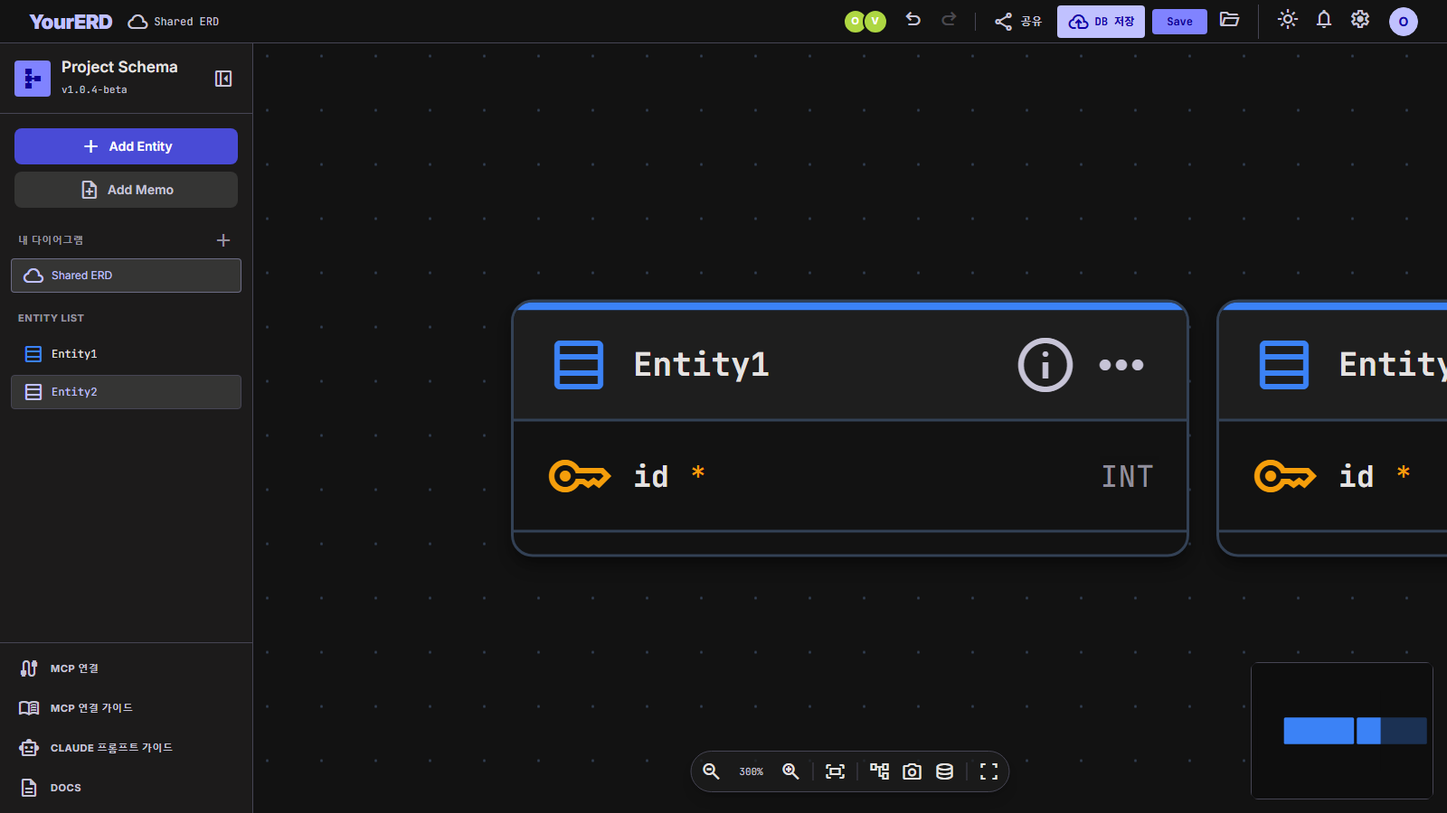
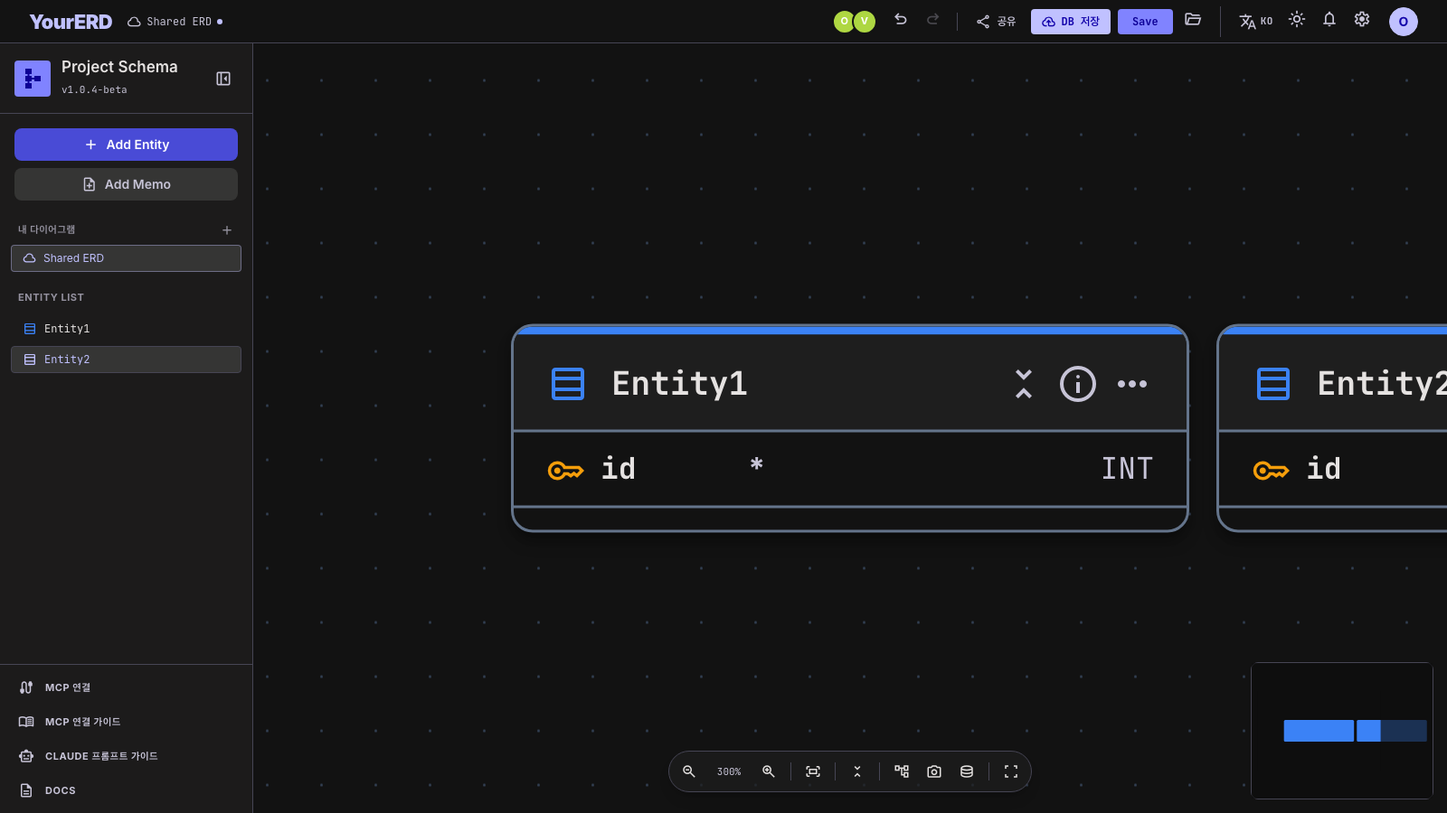
feat(share): 공유 링크를 로그인 없이 열람 가능하게
링크를 받은 사람이 반드시 로그인해야 볼 수 있던 제약을 해제한다.

익명 접근 경로는 2026-07-02 공유 기능 구현 때 이미 다 들어가 있었고
ALLOW_ANON_SHARE 환경변수로 잠겨만 있었다(1단계 MVP의 보수적 기본값).
새로 만든 것이 아니라 기본값을 뒤집고 잠금 스위치를 REQUIRE_SHARE_LOGIN=1 로
반전시켰다.

- share-routes.js: GET /api/shared/:token 의 401 게이트 제거.
  토큰 자체가 그 다이어그램 하나에 대한 읽기 capability 다.
- access-util.js: resolveDiagramAccess 가 비로그인에게 게스트 신원(guestId)을
  기본 발급. 단 익명은 viewer 링크만 — editor 링크는 로그인을 계속 요구한다.
  익명 편집자는 actorId 가 매번 새 게스트라 누가 고쳤는지 남지 않기 때문이고,
  요청은 '볼 수 있게' 였으므로 쓰기는 열지 않았다.
- sharedSessionStore.ts: '비로그인이면 로그인 모달 강제' 조기 반환 제거.
  401 catch 는 REQUIRE_SHARE_LOGIN=1 잠금 인스턴스용 폴백으로 남긴다.

유지된 불변식:
- 소유자 전용 /api/diagrams/:id 는 익명에게 여전히 401
- 토큰↔다이어그램 바인딩 유지, 폐기 토큰 403
- 링크 진입자는 계정 유무와 무관하게 읽기 전용

검증: verify_share.mjs 의 '익명 401' 단언을 뒤집고 익명 브라우저 시나리오
6항목을 추가해 24항목 ALL PASS(로그인 모달 미노출·다이어그램 렌더·읽기전용
배지·Add Entity 없음·협업 live 게스트 참여·API 200). REQUIRE_SHARE_LOGIN=1
로 띄워 익명 401 잠금도 별도 확인. 회귀 verify_server·verify_diagram_duplicate·
verify_features 14·verify_i18n 26·verify_node_density 17 PASS. 빌드 PASS,
lint 기존 baseline 16건 유지.

문서: ShareModal 안내문(ko/en), manual 3종 10.3절, README 환경변수 표,
.env.example 에 REQUIRE_SHARE_LOGIN 추가.

부수 정리: verify_share.mjs 의 스크린샷 경로 3곳이 Windows 절대경로로
하드코딩돼 macOS 에서 돌릴 때마다 리포 안에 C:/project/... 디렉토리가
생성되던 것을 상대 경로로 수정.

보안 영향(의도된 것): 링크를 아는 사람은 누구나 로그인 없이 읽을 수 있다.
토큰이 URL 경로(/d/<token>)에 있어 브라우저 히스토리·리퍼러·nginx 액세스
로그에 남으므로 링크 유출이 곧 열람 허용이다. 사내 전용 인스턴스는
REQUIRE_SHARE_LOGIN=1 로 예전 동작을 복구할 수 있다.

diff --git a/erd-service/public/manual.html b/erd-service/public/manual.html
@@ -364,13 +364,13 @@
           <li>저장한 다이어그램은 좌측 <strong>내 다이어그램</strong> 목록에서 전환·이름변경·삭제할 수 있습니다.</li>
         </ul>
         <div class="note">다이어그램 이름 옆의 점(●)은 저장되지 않은 변경 표시입니다. 다른 다이어그램 전환·로그아웃 시 미저장 변경이 있으면 경고합니다.</div>
-        <h3>10.3 공유 및 실시간 함께 보기 (로그인 필요)</h3>
+        <h3>10.3 공유 및 실시간 함께 보기</h3>
         <p>DB에 저장한 다이어그램을 <strong>링크로 공유</strong>해 여러 사람이 실시간으로 함께 볼 수 있습니다.</p>
         <ul>
           <li>다이어그램을 연 뒤 상단 <strong>공유</strong> 버튼을 누릅니다. (DB에 저장된 다이어그램만 공유 가능)</li>
           <li><strong>뷰어 링크 생성</strong> → <code>https://.../d/…</code> 링크가 만들어집니다. <strong>복사(⧉)</strong>로 복사해 전달하세요.</li>
-          <li>링크를 받은 사람이 <strong>로그인</strong>하면 소유자의 편집이 그 화면에 <strong>실시간 반영</strong>됩니다.</li>
-          <li>링크로 들어온 사람은 <strong>읽기 전용</strong>("읽기 전용" 배지). 편집 버튼·단축키는 비활성화되고 <strong>나가기</strong>로 내 작업으로 돌아갑니다.</li>
+          <li>링크를 받은 사람은 <strong>로그인 없이 바로</strong> 볼 수 있고, 소유자의 편집이 그 화면에 <strong>실시간 반영</strong>됩니다.</li>
+          <li>링크로 들어온 사람은 계정 유무와 무관하게 <strong>읽기 전용</strong>("읽기 전용" 배지). 편집 버튼·단축키는 비활성화되고 <strong>나가기</strong>로 내 작업으로 돌아갑니다.</li>
           <li>상단 참여자 <strong>아바타</strong>로 함께 보는 사람을 확인하고, 공유 모달 목록에서 링크를 <strong>폐기(🗑)</strong>할 수 있습니다.</li>
         </ul>
         <div class="note">링크 토큰은 발급 시 한 번만 표시되며 서버에는 해시만 저장됩니다. 링크는 그 다이어그램 하나만 열 수 있고 소유자의 다른 다이어그램·계정에는 접근할 수 없습니다. 여러 사람이 <strong>동시에 편집</strong>하는 기능은 다음 단계에서 제공될 예정입니다(현재는 소유자 편집 + 나머지 함께 보기).</div>

diff --git a/erd-service/server/access-util.js b/erd-service/server/access-util.js
@@ -22,7 +22,8 @@ export async function resolveShareToken(app, token) {
 // 반환: { diagramId, userId|null, guestId|null, role } | null(접근 불가).
 //   - 소유자(JWT로 user 확보 + 소유): role='owner'
 //   - 그 다이어그램에 바인딩된 유효 공유 토큰: role=share.role
-//       · JWT도 있으면 userId로 신원, 없으면 ALLOW_ANON_SHARE일 때만 게스트, 아니면 로그인 필요(null)
+//       · JWT가 있으면 userId로 신원, 없으면 게스트(익명)로 참여
+//       · 단 익명은 **viewer 링크만** — editor 링크는 누가 고쳤는지 남아야 하므로 로그인을 요구한다
 // 공유 토큰이 다른 다이어그램을 열지 못하도록 share.diagramId === id를 강제한다.
 export async function resolveDiagramAccess(app, { diagramId, user, shareToken }) {
   const id = Number(diagramId);
@@ -38,10 +39,12 @@ export async function resolveDiagramAccess(app, { diagramId, user, shareToken })
   const share = await resolveShareToken(app, shareToken);
   if (share && share.diagramId === id) {
     if (user) return { diagramId: id, userId: user.id, guestId: null, role: share.role };
-    if (process.env.ALLOW_ANON_SHARE === '1') {
+    // 비로그인 참여: 보기 전용 링크만 허용한다. editor 링크로 익명이 들어오면 편집자가 되어
+    // 누가 바꿨는지 남지 않으므로(actorId가 매번 새 게스트) 로그인을 요구한다.
+    if (share.role === 'viewer' && process.env.REQUIRE_SHARE_LOGIN !== '1') {
       return { diagramId: id, userId: null, guestId: 'g' + randomUUID(), role: share.role };
     }
-    return null; // 토큰은 유효하나 로그인 필요(MVP 기본)
+    return null; // editor 링크 익명 접근, 또는 REQUIRE_SHARE_LOGIN=1
   }
 
   return null;

diff --git a/erd-service/server/share-routes.js b/erd-service/server/share-routes.js
@@ -63,11 +63,12 @@ export default async function shareRoutes(app) {
 
   // 공개 읽기 — 공유 토큰으로 다이어그램 데이터 조회. 소유자 전용 /api/diagrams/:id와 분리해
   // "다이어그램은 소유자 비공개" 불변식을 유지한다(공유는 별도 토큰 표면).
-  // MVP 기본은 로그인 필요(ALLOW_ANON_SHARE=1이면 비로그인도 허용).
+  // 링크를 가진 사람은 **로그인 없이** 볼 수 있다 — 토큰 자체가 그 다이어그램 하나에 대한 읽기 capability다.
+  // 운영상 다시 잠그려면 REQUIRE_SHARE_LOGIN=1 (예: 사내 전용 인스턴스).
   app.get('/api/shared/:token', async (req, reply) => {
     let user = null;
-    try { await req.jwtVerify(); user = req.user; } catch { /* 익명 접근 */ }
-    if (!user && process.env.ALLOW_ANON_SHARE !== '1') {
+    try { await req.jwtVerify(); user = req.user; } catch { /* 익명 접근 — 허용 */ }
+    if (!user && process.env.REQUIRE_SHARE_LOGIN === '1') {
       return reply.code(401).send({ error: 'login_required' });
     }
     const share = await resolveShareToken(app, req.params.token);

diff --git a/erd-service/public/en/manual.html b/erd-service/public/en/manual.html
@@ -374,7 +374,7 @@
         <ul>
           <li>Open the diagram and press <strong>Share</strong> in the top bar. (Only diagrams saved to the database can be shared.)</li>
           <li><strong>Create viewer link</strong> → a <code>https://.../d/…</code> link is generated. Use <strong>copy (⧉)</strong> and send it on.</li>
-          <li>Once the recipient <strong>signs in</strong>, the owner's edits appear on their screen <strong>in real time</strong>.</li>
+          <li>The recipient can open it <strong>without signing in</strong>, and the owner's edits appear on their screen <strong>in real time</strong>.</li>
           <li>Anyone arriving via the link is <strong>read-only</strong> (marked with a "Read-only" badge). Editing buttons and shortcuts are disabled, and <strong>Leave</strong> returns them to their own work.</li>
           <li>The participant <strong>avatars</strong> in the top bar show who is watching, and links can be <strong>revoked (🗑)</strong> from the list in the share modal.</li>
         </ul>

diff --git a/erd-service/src/store/sharedSessionStore.ts b/erd-service/src/store/sharedSessionStore.ts
@@ -31,12 +31,8 @@ export const useSharedSessionStore = create<SharedSessionState>((set) => ({
 
   enter: async (token) => {
     set({ token, error: null, needsLogin: false });
-    // MVP: 로그인 필요 — 비로그인 상태면 로그인 모달을 띄우고, 로그인 후 App에서 재시도한다.
-    if (useAuthStore.getState().status === 'anon') {
-      set({ needsLogin: true });
-      useAuthStore.getState().openModal();
-      return;
-    }
+    // 로그인 없이 바로 연다. 서버가 REQUIRE_SHARE_LOGIN=1로 잠겨 있으면 아래 catch의 401이
+    // 로그인 모달을 띄우고, 로그인 후 App이 재시도한다(잠금 인스턴스용 폴백).
     try {
       const dg = await api.getSharedDiagram(token);
       const { entities, relationships, positions, memos } = fromERDData(dg.data);

diff --git a/erd-service/src/i18n/ko.ts b/erd-service/src/i18n/ko.ts
@@ -271,7 +271,7 @@ export const ko = {
   'share.saveFirstBefore': '공유하려면 먼저 다이어그램을',
   'share.saveFirstStrong': 'DB에 저장',
   'share.saveFirstAfter': '하세요.',
-  'share.intro1': '다이어그램의 공유 링크를 만듭니다. 링크를 받은 사람이 로그인하면 여러 명이 실시간으로',
+  'share.intro1': '다이어그램의 공유 링크를 만듭니다. 링크만 있으면 로그인 없이 여러 명이 실시간으로',
   'share.introStrong': '함께 볼',
   'share.intro2': '수 있습니다(읽기 전용). 실시간 동시 편집은 다음 단계에서 제공됩니다.',
   'share.linkLabel': '링크 이름 (선택)',

diff --git a/erd-service/src/i18n/en.ts b/erd-service/src/i18n/en.ts
@@ -270,7 +270,7 @@ export const en: Record<MessageKey, string> = {
   'share.saveFirstBefore': 'To share, first',
   'share.saveFirstStrong': 'save the diagram to the DB',
   'share.saveFirstAfter': '.',
-  'share.intro1': '— create a share link. Anyone with the link can sign in and',
+  'share.intro1': '— create a share link. No sign-in needed: anyone with the link can',
   'share.introStrong': 'view it together',
   'share.intro2': 'in real time (read-only). Simultaneous editing is coming in a later step.',
   'share.linkLabel': 'Link name (optional)',

diff --git a/CLAUDE.md b/CLAUDE.md
@@ -70,3 +70,4 @@
 | 2026-07-30 | 관계선 우회 드래그 축 판정 수정 (하단/상단 면 부착 시 무반응) | 프론트엔드 | 같은 날 추가한 우회 기능이 드래그 축을 **부모 쪽 연결 면**으로 판정해(`bendAxis(sourcePosition)`), 사용자가 끝점을 하단 면에 붙여 둔 좌우 배치에서는 선이 가로로 달리는데도 축이 x로 잡혀 상/하 드래그가 전혀 먹지 않던 문제 수정 — 축을 **두 끝점의 실제 진행 방향**으로 판정하도록 변경(`bendAxis(s, t)`: 가로 거리 ≥ 세로 거리면 y축=상/하 드래그). 좌우/상하 배치 모두 연결 면과 무관하게 올바른 축이 잡힌다. 추가로 오프셋 0의 기준선을 개선 — 양 끝이 같은 방향으로 나가면(둘 다 하단/상단, 둘 다 좌/우) 바깥쪽 stub을 기준(`baseX`/`baseY`)으로 삼아 자동 경로와 같은 모양에서 드래그가 시작되게 함(기존엔 끝점 y 평균이라 드래그 시작 시 선이 튀었음). `edgeConnection.ts`(bendAxis 시그니처·baseX/baseY)·`RelationshipEdge.tsx`(비우회 상태의 커서/툴팁 축 계산도 같은 함수 사용) 수정. `verify_edge_bend.mjs`에 하단 면 부착 케이스 추가(끝점 2개를 하단 면으로 드래그 → 좌우 배치 확인 → 상/하 드래그로 우회 → 끝점 하단 면 유지) **28항목 PASS**, 회귀 verify_edge_anchor 15·verify_rel_sidepanel 28·verify_features 14·verify_self_ref 13 PASS, 빌드 PASS, 스크린샷 확인(ss_edge_bend_bottom — 하단 면 부착 상태에서 중간 엔티티 아래로 우회). manual.html·USER_MANUAL.md 6.4절에 "연결 면이 아니라 두 엔티티의 배치로 축을 판단" 명시 |
 | 2026-09-01 | 한국어/영어 다국어(i18n) 지원 | 프론트엔드+문서 | 한국어 단일 언어였던 UI·가이드를 영어와 함께 지원 — 한국어 기본 + 상단 바 🌐 토글(자동 감지 없음), 선택은 localStorage 영속. **라이브러리 없이 자체 경량 구현**: `src/i18n/`(`locale.ts` zustand persist(`erd-locale`, themeStore 패턴 미러링)·정본 `ko.ts`·`en.ts`·`errors.ts`·`labels.ts`·`index.ts`의 `useT()`/`getT()`/`{name}` 보간) 신규. **타입 안전**: `MessageKey = keyof typeof ko` + `en: Record<MessageKey, string>`이라 번역 누락이 런타임 빈 문자열이 아니라 `tsc -b` 컴파일 에러로 잡힘. **경계 정의가 작업의 핵심** — 번역 대상은 `src/components/**`·`diagramStore`·`sharedSessionStore`·`dialogStore`·`fileIO`·`exportImage`의 화면 문자열(고유 ~170개)이고, **제외**: `server/**`의 `{error:'code'}`(기계 판독용)·`collab-hub`/`collab-routes`의 콘솔 전용 message·`mcp/src/**` 전부(LLM 대면, 로케일 무관해야 함)·`src/types/erd.ts`(`RELATIONSHIP_LABELS`를 MCP 도구 설명이 소비하는 정본이라 무변경, UI만 `relType.*` 키로 별도 조회)·사용자 데이터(논리명·설명·메모·다이어그램명)·erdOps 기본값(`Entity{N}`·`id`·`column`·`SubType{N}`·`SubSet`·`parent_` — 전부 이미 영문). **선행 정리(0단계)**: 삭제 확인 다이얼로그 4종이 App/ERDCanvas/각 편집모달에 3벌씩 복붙돼 있던 것을 `store/deleteActions.ts`로 통합(번역 키 4개로 축소), `core/relationshipSides.ts`의 `labelForSides`가 '식별'·'점선' 조각을 코드로 이어붙여 영어 어순에서 깨지던 것을 `i18n/labels.ts`로 옮기고 조립 순서를 사전(`rel.sideLabel` 템플릿)이 소유하게 재설계 — core에는 순수 로직만 잔류. **에러 문구 중앙화**: `AuthModal`에만 있던 코드→문구 맵을 `i18n/errors.ts`로 승격하고 `not_found`·`login_required`·`invalid_or_revoked_share`·`name_required`·`invalid_token`까지 커버(기존엔 `오류가 발생했습니다 (not_found)`처럼 raw 코드가 노출되던 UX 결함 동시 해소). `server/collab-auth.js`의 `'게스트'`는 서버가 로케일을 모르므로 `label: null`로 바꾸고 클라이언트가 `collab.guest`로 폴백(`protocol.ts` 타입 `string \| null`). **생성 텍스트는 생성 시점 로케일을 따름**(사용자 결정): `diagramStore`의 '새 다이어그램'·'○○ 사본' 프리필과 `exportSql`의 파일 헤더·서브타입 구분자 COMMENT(`generateMySQLDDL`/`buildSubtypeDDL`에 `TFunc` 인자 추가 — 스토어를 import하지 않아 순수성 유지). ※ 조사 중 CLAUDE.md 이력의 "식별 관계 FK 논리명 한글 자동 조합"이 현재 코드와 불일치함을 확인 — `erdOps.ts:115`는 부모 PK 논리명을 그대로 복사할 뿐이라 소급 영향 없음. **가이드 3종 영문판**: 세 페이지가 M3 팔레트 CSS를 각자 복붙(번역본 추가 시 6벌)하던 것을 `public/guide.css`로 공통 추출(`:root` 17개 변수 통합, 공통 24블록) 후 `public/en/{manual,mcp-guide,prompt-guide}.html` 신규 — prompt-guide의 한국어 예시 프롬프트 55개는 직역이 아니라 영문 프롬프트로 재작성. 사이드바/McpConnectModal의 가이드 링크를 `guideBase`로 로케일 분기, 각 페이지 목차에 🌐 상호 링크. **e2e 무회귀 장치**: 사전의 한국어 값을 기존 UI와 글자 단위로 동일하게 유지 + 기본 로케일 `ko` → 38개 스크립트가 쓰는 한글 셀렉터 122곳이 **무수정 통과**. `verify_i18n.mjs` 신규 26항목 PASS(토글·`<html lang>`·localStorage 영속·영어 모드에서도 `Entity1`/`id` 불변·SQL 헤더 양방향·삭제 다이얼로그 양방향·`/en/*.html`이 SPA fallback이 아닌 실제 파일로 서빙되는지). 회귀 dev: verify_features 14·verify_editor_modal 18·verify_entity_delete_key 10·verify_relationship_delete_key 14·verify_memo_delete_key 13·verify_rel_sidepanel 28·verify_memo 17·verify_multiselect 23·verify_fk_cleanup ALL PASS. 회귀 prod(8080): verify_server 8·verify_share 18·verify_diagram_duplicate·verify_gnb_cleanup·verify_sidebar_toggle ALL PASS, verify_backend은 기존 stale 1건(`reload 후 캔버스는 빈 상태`)만 실패로 HEAD와 동일함을 `git stash` 대조로 확인. 빌드 PASS, lint는 기존 baseline 16건 그대로(신규 0). 스크린샷 확인(ss_i18n_en·ss_i18n_ko·ss_i18n_guide_en_{manual,mcp,prompt}·ss_guide_ko_*). manual.html·USER_MANUAL.md에 15절 '화면 언어' 신설 + 상단 바 표에 언어/테마 행 추가, 2026-06-18에 제거된 Help 메뉴를 아직 안내하던 stale 문구 정정. ※ 기존 stale 재확인(무관·방치): `verify_subtype` 2건·`verify_sql_export` 1건은 커밋본에서도 동일 실패, `verify_mcp_guide`는 Help 메뉴 제거 이후, `verify_mcp_connect_ui` 1건은 `--scope user` 추가 이후 원래부터 실패 |
 | 2026-09-03 | 엔티티 노드 가독성 개선 (작은 화면 100% 편집 기준) | 프론트엔드 | 17테이블·350컬럼(`hu-commerce`) 실사용 규모에서 작은 노트북 100% 배율 편집 시 한 화면에 들어오는 엔티티가 너무 적던 문제. **조사 중 근본 원인 발견**: Google Fonts의 `.material-symbols-outlined { font-size:24px }`는 캐스케이드 **레이어 밖**인데 Tailwind v4 유틸리티는 `@layer utilities` **안**이라, 컴포넌트에 붙인 `text-[14px]` 류가 전부 무시되고 **앱의 아이콘 28개가 모두 24px로 렌더**되고 있었다(툴바·사이드바 포함 전역). 이것이 컬럼 행 높이를 32px로 고정하던 직접 원인. `index.css`에 같은 '레이어 밖' 규칙으로 실제 사용 중인 10개 크기(11~48px)만 되돌려 **컴포넌트 무수정으로 전역 해결**. 이어서 ① 컬럼 행을 `py-1`→`py-0.5 leading-[15px]`로 압축(서브타입 박스 행 `py-0.5`와 밀도 통일) → **행 32px→19px(−41%)**, ② `--color-node-border` 다크 `#334155`→`#64748b`·라이트 `#b0a8d0`→`#8b82ab`로 **대비 1.8:1→4.0:1**(UI 경계 권장 3:1 충족), ③ 컬럼 타입 `opacity-70` 제거, NOT NULL `*`를 PK와 같은 주황(`text-pk-color`)에서 중립색으로 분리, 논리명 플레이스홀더 `opacity-40`→`60`. ④ **엔티티 접기/펼치기** 신규 — 헤더 우측 chevron(`entity-collapse-toggle`) + 접힘 시 컬럼 수 배지(`entity-column-count`) + 줌 툴바 일괄 토글(`collapse-all-toggle`). 접힘은 **저장 포맷이 아닌 UI 상태**(`erdStore.collapsedEntityIds`)라 `types/erd.ts`·MCP·협업 op·저장 파일을 전혀 건드리지 않는다(다이어그램 전환 시 초기화). 접혀도 핸들·`entity-info-icon`·선택·삭제가 살아 있어 연결·편집 경로가 보존된다(17개 e2e가 쓰는 info 아이콘 유지가 설계 제약). **정량 결과**(1440×900·100%, `git stash` 대조 실측): 세로 900px에 통째로 담기는 테이블 **14/17→17/17**, 전체 노드 높이 합 **10,096px→7,636px(−24%)**, 모두 접으면 **697px**·Fit View 줌 **20%→38%**. `verify_node_density.mjs` 신규 **17항목 PASS**(아이콘 크기 회귀 방지·행 높이·대비비 계산·개별/일괄 접기·접힘 상태 핸들 8개·배지·복원), 회귀 15종 PASS(verify_edge_bend 33·verify_multiselect 23·verify_rel_sidepanel 28·verify_features 14·verify_editor_modal 18·verify_i18n 26·verify_memo 17·verify_edge_anchor 15·verify_self_ref 13·verify_entity_position 5·verify_entity_hover_info 9·verify_edge_button_pos·verify_column_drag·verify_fk_cleanup·verify_handle_size). 빌드 PASS, 다크·라이트 스크린샷 확인. manual.html·USER_MANUAL.md·en/manual.html에 4.5절 '엔티티 접기/펼치기' 신설(기존 4.4→4.6) + 줌 툴바 표 갱신. ※ **부수 정리**: `verify_inline_edit.mjs`가 결함 3개로 **한 번도 통과한 적 없던 것**을 수정해 처음 PASS — ① 빈 캔버스에서 `.react-flow__node`를 먼저 기다려 항상 타임아웃(2026-07-30 `verify_edge_button_pos`와 동일 부류), ② 셀렉터 `input`이 숨은 `input[type=file]`에 매칭, ③ `page.keyboard.fill`은 Playwright에 없는 API. ※ **범위 밖(의도적)**: 줌 기반 LOD(축소가 문제가 아니라는 사용자 확인 + `verify_subtype:114-133`의 말줄임 금지 단언과 충돌), 노드 폭 상한·말줄임(현행 유지 결정), 큰 테이블 max-height+내부 스크롤(접기가 더 낮은 위험으로 같은 문제 해결), 우클릭 메뉴 접기 항목(엔티티 전용 액션을 공용 `ContextMenu`에 넣는 결합 회피), `EntityNode:86`의 selector 없는 전체 스토어 구독(모든 `set()`에 전 노드 리렌더 — 실제 성능 이슈지만 별건), 서브타입 이름 인라인 편집이 `handleFieldSubmit`에 분기가 없어 조용히 버려지는 버그(별건). ※ 기존 stale 유지: `verify_subtype` 2건(커밋본에서도 동일 실패) |
+| 2026-09-03 | 공유 링크 — 로그인 없이 열람 가능 | 백엔드+프론트엔드 | 링크를 받은 사람이 반드시 로그인해야 볼 수 있던 제약 해제(사용자 요청). **익명 경로는 이미 구현돼 있었고 `ALLOW_ANON_SHARE` 환경변수로 잠겨만 있던 상태**라(2026-07-02 1단계 MVP의 보수적 기본값), 기본값을 뒤집고 잠금 스위치를 `REQUIRE_SHARE_LOGIN=1`로 반전시켰다. ① `server/share-routes.js`의 `GET /api/shared/:token` 401 게이트 제거 — 토큰 자체가 그 다이어그램 **하나**에 대한 읽기 capability다. ② `server/access-util.js`의 `resolveDiagramAccess`가 비로그인에게 게스트 신원(`guestId`)을 발급하도록 기본 허용. 단 **익명은 `viewer` 링크만** 허용하고 `editor` 링크는 로그인을 계속 요구한다 — 익명 편집자는 `actorId`가 매번 새 게스트라 누가 고쳤는지 남지 않기 때문(사용자 요청은 '볼 수 있게'였으므로 쓰기는 열지 않았다). ③ `src/store/sharedSessionStore.ts`의 `enter()`에서 '비로그인이면 로그인 모달 강제' 조기 반환 제거 — 401 catch는 `REQUIRE_SHARE_LOGIN=1` 잠금 인스턴스용 폴백으로 남긴다. 서버가 보내는 참여자 `label`은 비로그인일 때 null이고 클라이언트가 `collab.guest`로 폴백하는 경로(2026-09-01 i18n 작업분)가 그대로 동작해 게스트 아바타가 정상 표시됨을 확인. **불변식 유지**: 소유자 전용 `/api/diagrams/:id`는 익명에게 여전히 401, 토큰↔다이어그램 바인딩 유지, 폐기 토큰 403, 링크 진입자는 읽기 전용. `verify_share.mjs`의 '익명 401' 단언을 뒤집고 **익명 브라우저 시나리오 6항목 신규 추가**(로그인 모달 미노출·다이어그램 렌더·읽기전용 배지·Add Entity 없음·협업 live 게스트 참여·API 200) → **24항목 ALL PASS**. `REQUIRE_SHARE_LOGIN=1`로 띄워 익명 401 잠금도 별도 확인. 회귀 verify_server 8·verify_diagram_duplicate·verify_features 14·verify_i18n 26·verify_node_density 17 PASS, verify_backend은 기존 stale 1건(`reload 후 캔버스는 빈 상태`, 2026-06-30 문서화)만 실패로 무관. 빌드 PASS, lint 기존 baseline 16건 유지. 사용자 대면 문구 갱신 — ShareModal 안내(`share.intro1` ko/en), manual.html·USER_MANUAL.md·en/manual.html 10.3절(제목의 '(로그인 필요)' 제거 + 본문), README 환경변수 표·`.env.example`에 `REQUIRE_SHARE_LOGIN` 추가. 스크린샷 확인(ss_share_anon — 익명 세션에서 공유 세션 표시·읽기 전용 배지·게스트 아바타). ※ **부수 정리**: `verify_share.mjs`의 스크린샷 경로 3곳이 Windows 절대경로(`C:/project/...`)로 하드코딩돼 macOS에서 돌릴 때마다 리포 안에 `C:/project/harness-test/...` 디렉토리가 생성되던 것을 상대 경로로 수정. ※ **보안 영향(의도된 것)**: 링크를 아는 사람은 누구나 로그인 없이 그 다이어그램을 읽을 수 있다. 토큰이 URL 경로(`/d/<token>`)에 있어 브라우저 히스토리·리퍼러·nginx 액세스 로그에 남으므로, 링크 유출이 곧 열람 허용이다(폐기는 공유 모달에서 즉시 가능). 사내 전용 인스턴스는 `REQUIRE_SHARE_LOGIN=1`로 예전 동작 복구 |

diff --git a/erd-service/README.md b/erd-service/README.md
@@ -139,6 +139,7 @@ diagrams (id SERIAL PK, user_id INT FK→users ON DELETE CASCADE,
 | `DATABASE_URL` | `postgresql://user:pw@localhost:5432/erd_service` — **미설정 시 pg-mem 인메모리로 동작 (재시작 시 데이터 소실, 개발/QA 전용)** |
 | `JWT_SECRET` | 토큰 서명 키 (`openssl rand -hex 32` 권장). 미설정 시 dev 기본값 + 경고 |
 | `PORT` / `HOST` | 기본 8080 / 0.0.0.0 |
+| `REQUIRE_SHARE_LOGIN` | `1`이면 공유 링크도 로그인해야 열람 가능. **기본값(미설정)은 로그인 없이 열람 허용** — 링크 자체가 그 다이어그램 하나에 대한 읽기 권한이다. 익명은 `viewer` 링크만 허용되고 `editor` 링크는 언제나 로그인을 요구한다(누가 고쳤는지 남아야 하므로) |
 
 ## 실행
 
